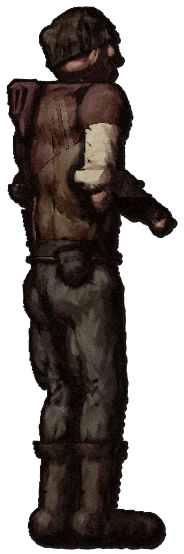
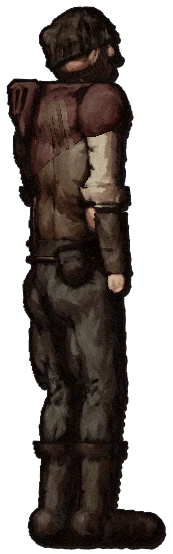
적 생명력 숨김, 피해 숫자 강조, 차례 사이 쉼, 인간 옆모습 팔 붙임
Claude-Session: https://claude.ai/code/session_014cu4eVXMELds87UQUvCgPs

diff --git a/docs/ASSUMPTIONS.md b/docs/ASSUMPTIONS.md
@@ -333,8 +333,9 @@
 | UI4 | 못 쓰는 선택지도 커서는 갈 수 있고(이유가 설명줄에 경고색으로 나온다) 확정만 안 된다. 칸 오른쪽 아래 작은 글씨 = 대가·남은 차례·성공 확률·생명력 % | 포켓몬처럼 PP 0인 기술도 커서를 올려 이유를 보게 | `ChoiceGrid.confirm`, `CommandMenu._short_reason` |
 | UI5 | 맨 위 메뉴 커서는 차례마다 "공격"에서 시작하고, 스킬 목록 커서와 마지막으로 고른 대상은 기억한다. 뒤로 가면 들어갔던 칸에 커서가 있다 | 같은 스킬·같은 대상을 거듭 쓰는 흐름을 짧게 | `CommandMenu._skill_cursor`·`_last_target` |
 | UI6 | desc_ko가 없는 스킬(정수판 대부분)은 대상·피해 유형·거는 상태·재사용을 데이터에서 뽑아 설명줄에 보인다 | 정수 스킬이 무엇을 하는지 알 수 없었다 | `SkillBrief` |
-| UI7 | **전투 화면 = 피어 앤 헝거식 정면 구도**(사용자 요청 2026-10-15, 첨부 스크린샷 4장): 좌우로 마주 보던 카드를 없애고, 어둠 속 빛 웅덩이 위 가운데에 적이 정면으로(덩치 = 크기^0.5, 많으면 함께 줄임), 아래 앞줄에 아군이 뒷모습으로 선다(가운데는 비우고 양옆으로, 다리는 아래 창에 가린다). 아래 창 = 왼쪽 명령 4칸(공격·스킬·방어·아이템) + 오른쪽 파티 창(이름·상태·생명력·영혼력 — 원작 게임의 체력·이성 자리). **행동 정하기(사용자 결정 2026-10-15 "1번 진행")**: 아군 차례가 왔는데 그 사람의 정해 둔 행동이 없으면, 그때 행동을 정하지 않은 아군(직접 조종하는 사람) 전원의 행동을 파티 창 순서대로 먼저 고른다(고르는 사람의 줄·발밑이 밝고, 정한 행동은 그 줄에 "공격 → 고블린 A"처럼 남는다, 명령 칸에서 뒤로 = 앞사람 다시). 다 정하면 순서는 CTB(민첩) 그대로 각자 차례가 올 때 정해 둔 행동을 한다 — 빠른 사람이 한 번 더 차례를 받으면 그 사람만 다시 정한다. 그때 와서 안 되는 행동은 같은 스킬을 다른 적에게 → 기본 공격 → 방어(소환수는 AI 그대로). 지금은 탐험가 혼자라 겉보기는 같고, 동료가 생기면 차이가 난다. 스킬·아이템·대상은 오른쪽 창이 목록(2×3)으로 바뀌고, 대상은 무대에서 발밑 금빛 고리 — 무대의 적을 직접 눌러도 된다. **도주는 스킬 목록 맨 끝**(성공 확률 표시). 적 이름은 머리 위, 생명력은 발밑 가는 막대. 전투 안내는 위 가운데에 최근 두 줄(잠깐 뒤 사라짐, 탐험 기록에도 남음). 몸은 그림 파일이 없어 `CombatFigure`가 그린다(사람형·짐승·덩어리 — 짙은 윤곽, 한쪽 그늘, 퀭한 눈) — 몬스터 원화가 생기면 바꾼다 | 사용자 요청 | `src/ui/combat/*`, `CommandMenu`, `render.json ui.combat_*` |
+| UI7 | **전투 화면 = 피어 앤 헝거식 정면 구도**(사용자 요청 2026-10-15, 첨부 스크린샷 4장): 좌우로 마주 보던 카드를 없애고, 어둠 속 빛 웅덩이 위 가운데에 적이 정면으로(덩치 = 크기^0.5, 많으면 함께 줄임), 아래 앞줄에 아군이 뒷모습으로 선다(가운데는 비우고 양옆으로, 다리는 아래 창에 가린다). 아래 창 = 왼쪽 명령 4칸(공격·스킬·방어·아이템) + 오른쪽 파티 창(이름·상태·생명력·영혼력 — 원작 게임의 체력·이성 자리). **행동 정하기(사용자 결정 2026-10-15 "1번 진행")**: 아군 차례가 왔는데 그 사람의 정해 둔 행동이 없으면, 그때 행동을 정하지 않은 아군(직접 조종하는 사람) 전원의 행동을 파티 창 순서대로 먼저 고른다(고르는 사람의 줄·발밑이 밝고, 정한 행동은 그 줄에 "공격 → 고블린 A"처럼 남는다, 명령 칸에서 뒤로 = 앞사람 다시). 다 정하면 순서는 CTB(민첩) 그대로 각자 차례가 올 때 정해 둔 행동을 한다 — 빠른 사람이 한 번 더 차례를 받으면 그 사람만 다시 정한다. 그때 와서 안 되는 행동은 같은 스킬을 다른 적에게 → 기본 공격 → 방어(소환수는 AI 그대로). 지금은 탐험가 혼자라 겉보기는 같고, 동료가 생기면 차이가 난다. 스킬·아이템·대상은 오른쪽 창이 목록(2×3)으로 바뀌고, 대상은 무대에서 발밑 금빛 고리 — 무대의 적을 직접 눌러도 된다. **도주는 스킬 목록 맨 끝**(성공 확률 표시). 적 이름은 머리 위, 생명력은 발밑 가는 막대(2026-10-16 삭제 — UI12). 전투 안내는 위 가운데에 최근 두 줄(잠깐 뒤 사라짐, 탐험 기록에도 남음). 몸은 그림 파일이 없어 `CombatFigure`가 그린다(사람형·짐승·덩어리 — 짙은 윤곽, 한쪽 그늘, 퀭한 눈) — 몬스터 원화가 생기면 바꾼다 | 사용자 요청 | `src/ui/combat/*`, `CommandMenu`, `render.json ui.combat_*` |
 | UI8 | **몬스터 전투 일러스트 = 피어 앤 헝거 몬스터 그림풍**(사용자 요청 2026-10-15, 첨부 그림 7장 — 늑대·털옷 사내·피투성이 시체·바위 피부 거인·까마귀 사내·두건 검사·날개 달린 괴물): 손그림 원화가 없어 생성기로 그린다(`tools/paint_monsters.gd` → `assets/monsters/<id>.webp` 52장 + `index.json` 몸 높이). 방식: 몸을 3D 덩어리(캡슐·타원체·판)로 빚어 근육 사이가 골이 지게 녹여 붙이고(`Clay`), 밝은 살 + 적갈색 그늘의 3~4단 붓 칠 띠 · 가려진 경계와 골의 잉크 선 · 어두운 곳 펜 빗금(`Render`) → 털 붓결(`Fur`)·피·때(`Finish`). 자세는 넓은 보폭·체중 실은 다리·늘어뜨린 팔(참고 그림의 시체·까마귀 사내처럼), 네발짐승은 다가오는 3/4 정면(참고 늑대). 원작에 모습 묘사가 없는 몬스터는 이름·데이터 색·크기에서 모습을 정했다(예: 블라터 = 뿔 투구의 저주받은 기사, 드레드피어 = 날개·뿔·몸에 박힌 눈, 웜스톤 = 이빨 아가리의 바위 벌레). 화면에서는 무대가 정한 키를 그림 속 몸 높이(들어 올린 무기·뿔 제외)에 맞춰 줄이고 발을 바닥선에 둔다. 그림이 없는 몬스터는 예전처럼 `CombatFigure` 도형 | 사용자 요청. 이 환경엔 그림 생성 AI·원화가 없다 | 설계 한 항목 = `tools/monster_art/Specs.gd`·`Specs2.gd`의 id 한 줄 → `godot --headless --path . --script res://tools/paint_monsters.gd -- --only=<id>`. 손그림 원화가 생기면 같은 경로에 덮어쓰고 `index.json`의 몸 높이를 고친다 |
+| UI12 | **적 생명력 숨김 · 피해 숫자 · 차례 사이 쉼**(사용자 요청 2026-10-16 "피어 앤 헝거처럼"): ① 적의 생명력은 어디에도 보이지 않는다 — 무대 발밑 막대 삭제, 대상 고르기 칸의 생명력 %는 아군만, "조사" 결과 문구에서도 생명력 현재/최대를 뺐다(등급·계열·스탯·상성·설명은 그대로). 아군 생명력·영혼력은 파티 창에 그대로 ② 피해는 맞은 몸 위에 큰 숫자(34px, 검은 테두리)로 튀어나왔다 잠깐 머문 뒤 흐려진다(1.3초) — 적이 입은 피해 = 밝은 금빛 `dmg_foe`, 아군이 입은 피해 = 붉은색 `dmg_party`, 치명타는 "!" ③ 행동이 끝날 때마다 다음 차례 전 0.7초 쉼(`combat_turn_gap_sec`, 적 행동 전 0.45초 `combat_ai_delay_sec`는 그대로) — 테스트·디버그 빠른 전투에서는 0. ④ 인간 옆모습은 바바리안처럼 두 팔을 몸에 붙여 내렸다(`side_pose`, 뒷모습은 그대로) | 사용자 요청 | 다시 보이게: `BattlerView`에 막대를 되살리고 `CommandMenu._target_opt`·`combat.info_monster` 문구. 숫자 크기·시간·색: `render.json ui.float_text_size`·`float_text_sec`·`palette.dmg_foe`·`dmg_party`. 쉼: `ui.combat_turn_gap_sec` |
 | UI11 | **아군 전투 그림(뒷모습)**(사용자 요청 2026-10-16 + 피어 앤 헝거 전투 스크린샷 2장): ① 탐험가 = 종족(인간·바바리안) × 남성 × 뒷모습·옆모습 2장(`assets/party/<종족>_back|_side.webp`). 복장은 종족 특징만 드러내고 너무 허름하지도 차려입지도 않게 — 인간은 걷어 올린 아마 셔츠·가죽 조끼·두건 달린 짧은 어깨 망토·허리 주머니와 단검·가죽 장화, 바바리안은 더 큰 덩치·땋은 긴 머리와 수염·털 어깨 망토·맨팔(위팔 쇠띠·팔목 가죽)·가죽 조끼·감은 종아리·털 단 장화. **장비를 바꾸거나 레벨이 올라도 전투에서는 이 모습 그대로**(사용자 결정), 무기도 들지 않는다. 바바리안은 사람 키(540px) 기준 1.14배로 그려 무대에서도 더 크다(색인 몸 높이는 둘 다 사람 키). ② 옆모습 = 오른쪽(적)을 보며 비스듬히 돌아선 모습(몸을 1.1라디안 돌림 — 오른 옆구리·옆얼굴이 보인다). 무대 가운데에서 `combat_party_side_from`(0.2) 이상 떨어진 자리는 옆모습, 오른쪽 자리는 좌우 반전해 가운데를 본다. ③ 아군으로 소환되는 몬스터(정수 스킬 summon·정수 패시브 low_hp_summons — 병사 시체·미라·철기병·구울·엘더 구울·슬라임)는 정면 그림을 참고한 뒷모습 `<id>_back.webp`(테스트가 데이터와 맞춰 본다). ④ 아군은 피어 앤 헝거처럼 크게 — 키 = 무대 높이 × `combat_party_height` 0.62, 발은 아래 창 뒤로 `combat_party_sink` 130px 가라앉음(무릎 위가 보인다), 소환수는 크기 비율(0.5~`combat_party_size_max` 1.2), 4인 자리 0.11·0.3·0.7·0.89(안쪽이 적을 덜 가린다). ⑤ 생성기: 몸 기준 3D 좌표에 뼈대·근육을 놓고 돌려 투영하는 `Back`(캡슐은 정확, 타원체는 근사) + 옷 `BackKit` + 장구 `BackGear` + 설계 `Party` | 사용자 요청 | 모습: `tools/monster_art/Party.gd`의 종족·몬스터 항목(색·옷 키) → `paint_monsters.gd -- --only=party`. 옆모습 각도 `Party.SIDE_TURN`, 바바리안 크기 `height`. 자리·크기: `render.json ui.combat_party_*`. 종족을 추가하면 `RACES`에 넣고 설계 항목을 만든다(없으면 도형) |
 | UI10 | **팔 내림·계층군주 다시 그림**(사용자 요청 2026-10-16): ① 한쪽 팔을 치켜들거나 벌린 9종(카툼바·예티·블라터·고블린 폭탄병·아이언 리자드맨·타룬바스·캠보르미어·고블린 광부·키르뒤)은 그 팔을 몸 옆에 붙여 곧게 내렸다(새 팔 자세 `rest`, 무기를 든 팔은 그대로). 예티·키르뒤는 치켜든 팔과 벌어진 팔이 하나씩이라 두 팔 모두 내렸다(사용자 지적 "벌어진 팔이 그대로"). ② 드레드피어는 "소환되면 끝장이다 싶은 위압감"이 나도록 첨부 그림(거대한 상반신·털 목도리·눈가린 얼굴·뿔·까마귀 머리·배의 얼굴·날개·아래가 연기로 사라짐)을 따라 전용 생성기 `Lord.gd`로 다시 그렸다 — 사람형 뼈대를 쓰지 않는다. 몸 높이 = 그림 높이 × 0.8(뿔·날개 끝 제외)이라 전투 무대에서 위 안내 줄 뒤로 뿔·날개가 넘치고 날개가 무대 양쪽을 덮는다 | 사용자 요청 | 팔: `Specs.gd`·`Specs2.gd`의 `arm_l`/`arm_r`(`rest` ↔ 예전 값). 드레드피어: `Specs2.gd` `dreadfear`(색·새 머리 수) + `Lord.gd`(모양), 크기 `Specs.body_height`의 `"lord"` 비율 |
 | UI9 | **전투 무대 크기**(사용자 요청 2026-10-16 "작은 건 작게 큰 건 크게, 보스는 크게크게"): 무대 키 = 사람 키(무대 높이 × `combat_enemy_height` 0.4) × 몬스터 `size`(전에는 √size라 고블린 0.7이 사람의 84%였다 → 70%). 보스 등급(`combat_boss_ranks` — 수호자·중간 보스·계층군주·변종 수호자)은 크기와 상관없이 위 안내 줄(72px) 바로 아래까지 — 사람 키의 약 2배, 치켜든 무기·뿔은 위로 넘쳐도 된다(이름표는 화면 안으로 당김). 덩치 큰 일반 몬스터는 위 안내 줄 자리(96px)를 남긴다. 적이 서는 바닥선은 무대 높이의 92%(아래 창 바로 위), 아군 뒷모습은 조금 더 아래로(`combat_party_sink` 100). 같은 날 시도한 "싸울 자세"(웅크림·내디딤·겨눔)는 사용자 결정으로 되돌렸다 — 그림은 UI8 그대로 | 사용자 요청 | `render.json ui.combat_enemy_height`·`combat_enemy_size_exp`(1 = 비례, 0.5 = 예전)·`combat_boss_height`·`combat_boss_top_room`·`combat_boss_head_room`·`combat_boss_ranks`·`combat_enemy_floor`·`combat_party_sink` |

diff --git a/README.md b/README.md
@@ -73,6 +73,17 @@ Noto Sans KR Regular(SIL OFL 1.1, `assets/fonts/OFL.txt`)를 번들했습니다.
 
 ## 테스트 플레이 체크리스트
 
+### 적 생명력 숨김 · 피해 숫자 (2026-10-16)
+
+| # | 할 일 | 기대 결과 |
+|---|---|---|
+| 1 | 전투를 시작한다 | 적 발밑에 생명력 막대가 없다. 공격 대상 목록에도 적의 생명력 %가 없다(아군은 있다) |
+| 2 | 적을 공격한다 | 맞은 적 몸 위에 금빛 큰 숫자가 튀어나왔다가 잠깐 뒤 사라진다 |
+| 3 | 적에게 맞는다 | 탐험가 몸 위에 붉은 큰 숫자 |
+| 4 | 차례가 넘어가는 것을 본다 | 행동 하나가 끝나면 잠깐(0.7초) 쉬었다가 다음 차례 |
+| 5 | 스킬 → 조사 → 적 | 기록에 등급·계열·스탯·상성·설명은 나오지만 생명력은 없다 |
+| 6 | 인간 탐험가 옆모습(전투 왼쪽) | 두 팔이 몸 옆에 붙어 있다 |
+
 ### 아군 전투 그림 (2026-10-16)
 
 | # | 할 일 | 기대 결과 |
@@ -232,7 +243,7 @@ Noto Sans KR Regular(SIL OFL 1.1, `assets/fonts/OFL.txt`)를 번들했습니다.
 - [ ] 전투에서 행동창이 2열 × 3줄 고정 칸으로 나온다: 공격 · 스킬 / 방어 · 아이템 / 도주 · (빈 칸). 빈 칸도 테두리가 보인다
 - [ ] W/A/S/D(방향키도)로 금색 테두리 커서가 움직이고, Space로 확정, Enter로 한 단계 뒤로 간다. 뒤로 가면 들어갔던 칸에 커서가 있다
 - [ ] 정수를 여러 개 흡수하면 스킬이 6개씩 쪽으로 나뉘고 오른쪽 위에 "◀ 1/4 ▶"가 보인다. 오른쪽 열에서 D를 한 번 더 누르면 다음 쪽, 왼쪽 열에서 A면 이전 쪽(마우스로 ◀ ▶를 눌러도 된다)
-- [ ] 칸 오른쪽 아래에 영혼력 대가, 재사용 대기("n차례 대기")·"대가 부족"·"봉인", 도주 성공 %, 대상 생명력 %가 작게 나온다
+- [ ] 칸 오른쪽 아래에 영혼력 대가, 재사용 대기("n차례 대기")·"대가 부족"·"봉인", 도주 성공 %, (아군 대상만) 생명력 %가 작게 나온다
 - [ ] 판 아래 설명줄에 커서가 놓인 선택지의 설명이 나온다(정수 스킬: 대상 · 피해 유형 · 거는 상태 · 재사용). 못 쓰는 스킬은 이유가 노란색으로 나오고 Space를 눌러도 쓰이지 않는다
 - [ ] 마우스로 칸에 올리면 커서가 옮겨 가고, 누르면 확정된다
 - [ ] 확률 상태 스킬(예: 마비 시선)이 안 걸리면 기록에 "…아무 효과도 내지 못했다"가 나온다
@@ -450,7 +461,7 @@ Noto Sans KR Regular(SIL OFL 1.1, `assets/fonts/OFL.txt`)를 번들했습니다.
 | 5 | **F1**(디버그 패널) 열기 | 패널이 열려 있는 동안 시각이 멈춤 |
 | 6 | 디버그 **몬스터 소환(바로 전투)** | 전투 화면. 위쪽에 순서 목록이 없고, 현재 차례 카드만 노란 테두리. 행동창은 **공격 · 방어 · 스킬 · 도주** 네 개 |
 | 7 | **스킬** | **대화**, **조사**가 있고 맨 아래 **아이템…** |
-| 8 | **스킬 → 조사 → 적** | 기록에 "[조사] 이름 — 등급, 계열, 생명력 %, 설명". 내 차례가 끝나고 적이 행동 |
+| 8 | **스킬 → 조사 → 적** | 기록에 "[조사] 이름 — 등급, 계열, 스탯, 상성, 설명"(적 생명력은 2026-10-16부터 보이지 않음). 내 차례가 끝나고 적이 행동 |
 | 9 | **스킬 → 대화 → 적** | 계열별 반응(늑대는 으르렁, 구울은 무반응 …), 효과 없이 차례만 지나감 |
 | 10 | **공격** | 적 목록. 약점이 있는 적이면 "약점 노리기: 이름"도 보임 |
 | 11 | 이기거나 도망친 뒤 **계속** | 탐험으로 돌아오고 시각이 전투 차례 수만큼(1차례 = 0.6분) 지나 있고, 다시 흐름 |

diff --git a/docs/PROGRESS.md b/docs/PROGRESS.md
@@ -4,6 +4,8 @@
 
 ## 현재 상태 (2026-10-14)
 
+- **적 생명력 숨김 · 피해 숫자 · 차례 사이 쉼 · 인간 옆모습 팔 (2026-10-16, 사용자 요청)**: ① 적 생명력 막대 삭제, 대상 칸 생명력 %는 아군만, 조사 결과에서도 적 생명력 삭제 ② 피해 숫자를 크게(34px·테두리·튀어나옴·1.3초) — 적이 입은 피해 금빛, 아군이 입은 피해 붉게 ③ 행동마다 다음 차례 전 0.7초 쉼(`CombatScreen._turn_gap`) ④ 인간 옆모습 두 팔을 몸에 붙임(`Party.gd side_pose`). 캡처 도구 `--hit[=초]`(첫 적을 공격하고 바로 찍음). UI 스모크에 "무대에 생명력 막대 없음". 가정 UI12. check.sh 통과 + 캡처(적이 입은 피해·아군이 입은 피해) 확인.
+
 - **아군 전투 그림 — 탐험가 뒷모습·옆모습, 소환수 뒷모습 (2026-10-16, 사용자 요청 + 피어 앤 헝거 전투 스크린샷 2장)**: 범위 — 전투 무대 아래 앞줄의 탐험가(인간·바바리안 남성, 뒷모습·옆모습 2장씩)와 아군으로 소환되는 몬스터 6종의 뒷모습. 완료 기준 — 그림 10장 + 전투 무대 연결 + 테스트(종족·소환수마다 그림) + check.sh + 캡처. 한 일: ① 새 생성기 `tools/monster_art/Back.gd`(몸 기준 3D 좌표 → 몸을 돌려 투영: 뒷모습 0, 옆모습 1.1라디안 — 견갑골·척추 골·광배근·햄스트링·종아리·발뒤꿈치, 뒤통수·귀, 돌리면 광대·턱·코·눈썹뼈), `BackKit.gd`(바지·셔츠·조끼·두건 망토·털 망토·허리띠·주머니·단검·장화·팔목 가죽·위팔 띠·감은 종아리, 짧은·긴·땋은·헝클어진 머리, 수염 — 옷 단은 몸 둘레를 따라 휜다 `hem_poly`), `BackGear.gd`(붕대·허리천·판금·긴 망토·투구와 깃 장식·창·기병창·방패 안쪽 면), `Party.gd`(설계 + 기는 구울 뒷모습, 슬라임은 눈만 뺌) ② `paint_monsters.gd`가 아군 그림도 그림(`--only=party`), 색인 `assets/party/index.json` ③ 전투: `MonsterArt` 폴더별 그림·색인, `BattlerView` 아군 그림(탐험가 back/side `set_view` + 좌우 반전, 소환수 `<id>_back`), `BattleStage` 아군을 크게(무대 62%, 무릎 위가 보이게), 가장자리는 옆모습, 소환수 크기 비율·화면 안으로 ④ 웹 내보내기에 `assets/party/index.json` ⑤ 캡처 도구 `--mate=종족,종족`·`--ally_summon=id,id`. 가정 UI11. check.sh 통과(테스트 279) + 전투 캡처(4인 혼성 파티·2인·소환수 6종) 확인.
 
 - **팔 내림 9종 · 드레드피어 다시 그림 (2026-10-16, 사용자 요청 + 첨부 그림)**: ① 카툼바·예티·블라터·고블린 폭탄병·아이언 리자드맨·타룬바스·캠보르미어·고블린 광부·키르뒤의 치켜들거나 벌린 한쪽 팔을 몸 옆에 붙여 내림(`Rig` 새 팔 자세 `rest` — 예티·키르뒤는 벌어진 팔까지 두 팔 모두). ② 계층군주 드레드피어("잡병1 같다" → 첨부 그림처럼 위압적으로): 전용 생성기 `tools/monster_art/Lord.gd` — 화면을 채우는 거대한 상반신, 굵은 털 목도리와 거기서 돋은 빛나는 눈의 까마귀 머리 7, 창백한 머리카락에 눈을 가린 얼굴, 바깥으로 뻗다 치솟는 황소 뿔, 가슴·배의 이빨 드러낸 얼굴, 바닥까지 늘어진 팔, 손가락뼈 사이 막이 오목하게 처지고 찢어진 박쥐 날개, 아래는 검은 연기. 몸 높이 = 그림 × 0.8이라 전투 무대에서 뿔·날개가 위 안내 줄 뒤로 넘치며 무대를 덮는다. 가정 UI10. check.sh 통과 + 전투 캡처(드레드피어) 확인.
